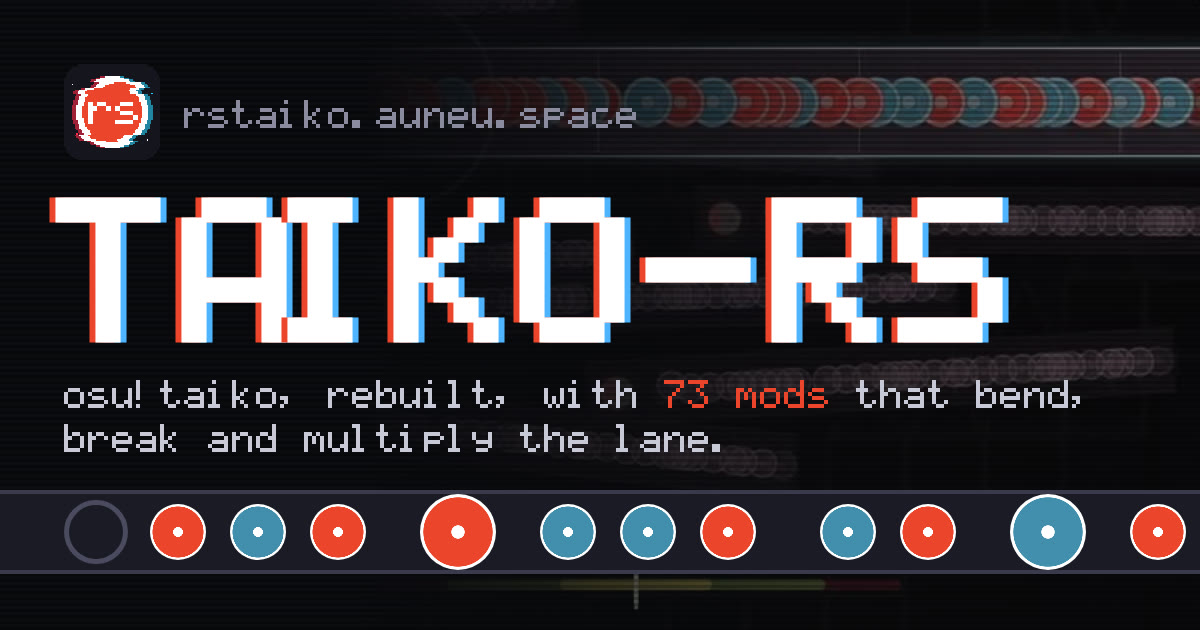
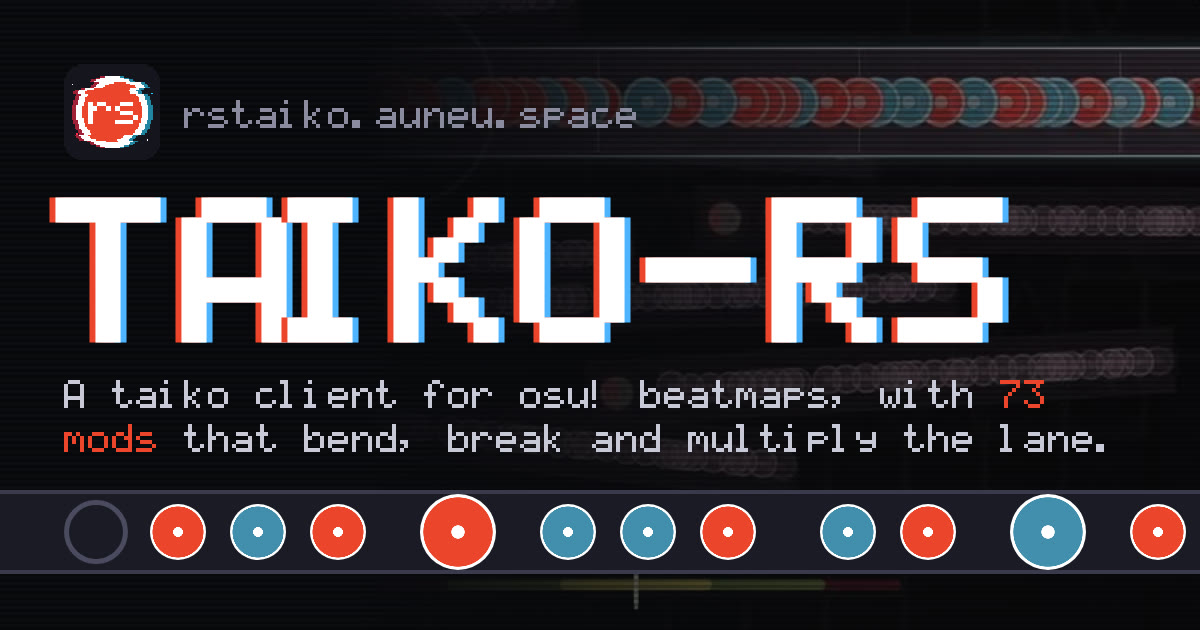
MIT license and third-party notices; the site and README call taiko-rs a taiko client for osu! beatmaps and say it isn't affiliated with ppy

Changed region(s): [[0.0308, 0.6032, 0.925, 0.7238]]

diff --git a/server/site/og-card.html b/server/site/og-card.html
@@ -20,6 +20,6 @@ em{font-style:normal;color:#EB452C}
 <div class=bg></div><div class=scan></div>
 <img class=logo src=../../assets/icon-64.png><div class=url>rstaiko.auneu.space</div>
 <h1>TA<span class=n>I</span>KO-RS</h1>
-<p>osu!taiko, rebuilt, with <em>73 mods</em> that bend, break and multiply the lane.</p>
+<p>A taiko client for osu! beatmaps, with <em>73 mods</em> that bend, break and multiply the lane.</p>
 <div class=lane><div class=judge></div>
 <i class=d style="left:150px"></i><i class=k style="left:230px"></i><i class=d style="left:310px"></i><i class="d big" style="left:420px"></i><i class=k style="left:540px"></i><i class=k style="left:620px"></i><i class=d style="left:700px"></i><i class=k style="left:820px"></i><i class=d style="left:900px"></i><i class="k big" style="left:1010px"></i><i class=d style="left:1130px"></i></div>

diff --git a/server/src/pages.rs b/server/src/pages.rs
@@ -13,7 +13,7 @@ use crate::scores::{Extras, MapRow, Ranked};
 const REPO: &str = "https://github.com/Lynerrr/taiko-rs";
 /// Where the site lives, for the absolute links link previews need.
 const SITE: &str = "https://rstaiko.auneu.space";
-const TAGLINE: &str = "osu!taiko, rebuilt, with 73 mods that bend, break and multiply the lane. Rankings, profiles, chat and downloads.";
+const TAGLINE: &str = "A taiko client for osu! beatmaps, with 73 mods that bend, break and multiply the lane. Rankings, profiles, chat and downloads.";
 const RAW: &str = "https://raw.githubusercontent.com/Lynerrr/taiko-rs/worktree-taiko-client";
 
 /// A clip of taiko-rs's own mods: what it shows, the mods on, its file under /clips/, and the
@@ -458,7 +458,7 @@ fn stage(players: usize, plays: usize, online: usize, bg: &str, cta: &str) -> St
          <div class=hud-tl>{online} online &middot; {players} ranked &middot; server up</div>\
          <div class=hud-tr aria-hidden=true><div class=hud-score>{:08}</div><div class=hp><i></i></div><div class=modname><div class=ticker>{labels}</div></div></div>\
          <div class=intro><h1 class=glitch data-text=\"TAIKO-RS\">TA<span class=narrow>I</span>KO-RS</h1>\
-           <p>osu!taiko, rebuilt, with <em>{} mods</em> that bend, break and multiply the lane.</p></div>\
+           <p>A taiko client for osu! beatmaps, with <em>{} mods</em> that bend, break and multiply the lane.</p></div>\
          <div class=field aria-hidden=true>{}{}{}{}<div class=hit-great>GREAT</div></div>\
          <div class=stage-cta>{}</div><div class=errbar aria-hidden=true><i></i><i></i><i></i><i></i><i></i></div></section>",
         plays,
@@ -1003,7 +1003,7 @@ pub fn page(title: &str, nav: &str, viewer: Option<&str>, meta: &Meta, body: &st
 <link rel=preload href="/site/taiko5x7.woff2" as=font type="font/woff2" crossorigin><style>{STYLE}</style></head>
 <body><nav><div class=inner><a class=logo href="/" aria-label="taiko-rs home"><img src="/site/logo.png" alt="" width=32 height=32>TA<span class=narrow>I</span>KO-RS</a><div class=links>{links}</div>
 <form action="/u" role=search><input name=name placeholder="find a player" maxlength=16 aria-label="Find a player"></form><div class=account>{account}</div></div></nav>
-<main>{}</main><footer><div class=inner><span class=brand>TAIKO-RS</span><a href="{REPO}">github</a><a href="/download">download</a><a href="/mods">mods</a><span class=dim>map covers from osu!</span></div></footer></body></html>"#,
+<main>{}</main><footer><div class=inner><span class=brand>TAIKO-RS</span><a href="{REPO}">github</a><a href="/download">download</a><a href="/mods">mods</a><a href="{REPO}/blob/worktree-taiko-client/LICENSE">MIT license</a><span class=dim>Not affiliated with ppy or osu!. Beatmap covers load from osu!'s servers.</span></div></footer></body></html>"#,
         esc(title),
         body
     )

diff --git a/server/src/web.rs b/server/src/web.rs
@@ -383,7 +383,7 @@ fn route(state: &State, req: &Req) -> Reply {
             drop(scores);
             let (online, rooms) = (state.online_players(), state.rooms());
             let live = pages::Live { online: &online, rooms: &rooms, latest: &latest };
-            req.page(200, "osu!taiko, rebuilt", "", pages::home(&ranked, &maps, ranked.len(), plays, req.os, live)).per_visitor()
+            req.page(200, "a taiko client for osu! beatmaps", "", pages::home(&ranked, &maps, ranked.len(), plays, req.os, live)).per_visitor()
         }
         ["rankings"] => req.page(200, "Performance Ranking", "rankings", pages::rankings(&state.scores.lock().unwrap().rankings(RANKINGS))),
         ["api", "rankings"] => Reply::json(&state.scores.lock().unwrap().rankings(RANKINGS)),

diff --git a/THIRD-PARTY.md b/THIRD-PARTY.md
@@ -1,0 +1,39 @@
+# Third-party notices
+
+taiko-rs itself is under the MIT license (see `LICENSE`).
+
+## osu!
+
+taiko-rs is an independent project. It is not affiliated with, or endorsed by, ppy Pty Ltd;
+"osu!" is a trademark of ppy Pty Ltd.
+
+- It plays the beatmaps and skins the player already has (their osu! `Songs` and `Skins`
+  folders, or files they open). No beatmaps, skins or osu! assets are bundled with it.
+- Star ratings and pp are worked out by [rosu-pp](https://github.com/MaxOhn/rosu-pp) (MIT), a
+  port of osu!lazer's difficulty and performance calculation. Beatmap conversion and hit windows
+  follow osu!lazer's behaviour; [osu!lazer](https://github.com/ppy/osu) is MIT-licensed,
+  Copyright (c) ppy Pty Ltd.
+- Beatmap downloads, previews and the website's beatmap covers come from osu!'s servers and
+  beatmap mirrors, as the player or the page asks for them.
+
+## Bundled assets
+
+- The built-in hitsounds (`assets/hitsounds/`: don, kat, finisher, combo break) are synthesized
+  from scratch by `assets/hitsounds/synth.py`; a skin's own hitsounds replace them.
+- The 5x7 LCD font is drawn in `src/font.rs`; the website's font (`server/site/taiko5x7.woff2`)
+  is built from it by `server/site/build_font.py`.
+
+## Rust libraries
+
+The game and the server are built from crates.io libraries under their own licenses, all
+permissive: MIT and/or Apache-2.0 for most, and some under BSD-2-Clause, BSD-3-Clause, ISC, Zlib,
+Unlicense or 0BSD. The [Symphonia](https://github.com/pdeljanov/Symphonia) audio decoders are
+under MPL-2.0 and are used unmodified. `cargo metadata` (or `cargo about`) lists every crate with
+its license and authors.
+
+Notable ones: [wgpu](https://github.com/gfx-rs/wgpu) and [winit](https://github.com/rust-windowing/winit)
+(graphics and windows), [cpal](https://github.com/RustAudio/cpal) (audio output),
+[Symphonia](https://github.com/pdeljanov/Symphonia) (audio decoding),
+[rosu-pp](https://github.com/MaxOhn/rosu-pp) (stars and pp), [image](https://github.com/image-rs/image),
+[zip](https://github.com/zip-rs/zip2), [ureq](https://github.com/algesten/ureq),
+[serde](https://github.com/serde-rs/serde), and on the server [argon2](https://github.com/RustCrypto/password-hashes).

diff --git a/README.md b/README.md
@@ -4,7 +4,7 @@
 
 # taiko-rs
 
-**A small, fast osu!taiko client written in Rust.**
+**A small, fast taiko client for osu! beatmaps, written in Rust.**
 
 Linux (Wayland) · Windows · Android
 
@@ -69,6 +69,12 @@ cargo build --release
 
 You'll need `clang` and the PipeWire headers (or build with `--no-default-features` for ALSA
 only). The APK is built with `android/build-apk.sh`, and the online server lives in `server/`.
+
+## License
+
+MIT, see [LICENSE](LICENSE); libraries and assets in [THIRD-PARTY.md](THIRD-PARTY.md). taiko-rs is
+not affiliated with or endorsed by ppy Pty Ltd ("osu!" is their trademark). It plays the beatmaps
+and skins you already have and bundles none of osu!'s.
 
 <div align="center">
 <sub>📖 The <a href="README1.md">full guide</a> covers every setting, mod and screen.</sub>
